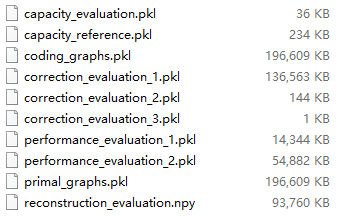
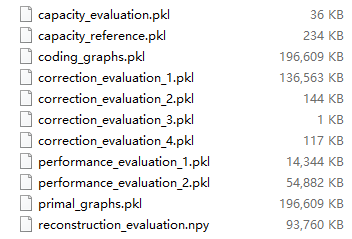
normal update
add HEDGES runtime test

diff --git a/experiments/code_repair.py b/experiments/code_repair.py
@@ -1,11 +1,14 @@
 # noinspection PyPackageRequirements
 from Bio.pairwise2 import align
+from itertools import product
 from datetime import datetime
-from numpy import random, array, load, sum, std, max, mean, log, where
+from numpy import random, array, zeros, load, all, sum, std, max, mean, ceil, log, where, longlong
 from warnings import filterwarnings
 
-from dsw import Monitor, encode, set_vt, repair_dna, obtain_vertices
+from dsw import Monitor, encode, set_vt, repair_dna, obtain_vertices, bit_to_number
 from dsw import accessor_to_latter_map, approximate_capacity, remove_nasty_arc
+
+from experiments import local_bio_filters
 
 filterwarnings("ignore", category=RuntimeWarning)
 
@@ -404,3 +407,173 @@ def screen_edges_for_repair(accessor, maximum_rounds=0):
         current += 1
 
     return results
+
+
+def hedges_runtime(random_seed, check_number, error_number):
+    def hash_function(source_value):
+        target_value = array(source_value, dtype=longlong) * array(3935559000370003845, dtype=longlong)
+        target_value += array(2691343689449507681, dtype=longlong)
+        target_value ^= target_value >> 21
+        target_value ^= target_value << 37
+        target_value ^= target_value >> 4
+        target_value *= array(4768777513237032717, dtype=longlong)
+        target_value ^= target_value << 20
+        target_value ^= target_value >> 41
+        target_value ^= target_value << 5
+        return target_value
+
+    def hedges_encode(binary_message, strand_index, pattern, mapping, bio_filter,
+                      salt_number=46, previous_number=8, low_order_number=10):
+        dna_string, available_nucleotides, bit_location, pattern_flag = "", mapping, 0, 0
+        salt_index = strand_index % (2 ** salt_number)  # s bits of salt (strand ID).
+        while bit_location < len(binary_message):
+            bit_index = bit_location % (2 ** low_order_number)  # low-order q bits of the bit position index i.
+
+            if bit_location - previous_number >= 0:
+                previous_info = binary_message[bit_location - previous_number: bit_location]
+                previous_value = bit_to_number(previous_info, is_string=False)
+            else:
+                previous_value = 0
+
+            hash_value = hash_function(bit_index | previous_value | salt_index)
+            if len(available_nucleotides) > 0:
+                bit_number = pattern[pattern_flag]
+                message_bit = binary_message[bit_location: bit_location + bit_number]
+                bit_value = bit_to_number(message_bit, is_string=False) if len(message_bit) > 0 else 0
+                nucleotide = available_nucleotides[(hash_value + bit_value) % len(available_nucleotides)]
+                bit_location += bit_number
+                pattern_flag = (pattern_flag + 1) % len(pattern)
+            else:
+                raise ValueError("DNA string (index = " + str(strand_index) + ") " +
+                                 "cannot be encoded because of the established constraints!")
+
+            dna_string += nucleotide
+
+            available_nucleotides = []
+            for potential_nucleotide in mapping:
+                if bio_filter.valid(dna_string + potential_nucleotide, only_last=True):
+                    available_nucleotides.append(potential_nucleotide)
+
+        return dna_string
+
+    def hedges_decode(dna_string, strand_index, bit_length, pattern, mapping, bio_filter,
+                      salt_number=46, previous_number=8, low_order_number=10, heap_limitation=1e6, initial_score=0.0,
+                      correct_penalty=-0.035, insert_penalty=1.0, delete_penalty=1.0, mutate_penalty=1.0):
+        # s bits of salt (strand index).
+        salt_value = strand_index % (2 ** salt_number)
+
+        class HypothesisNode:
+
+            def __init__(self, pattern_flag, message, string):
+                self.pattern_flag, self.message, self.string = pattern_flag, message, string
+
+            def next(self, nucleotide_index, current_score):
+                follow_vertices, follow_scores, follow_indices = [], [], []
+
+                # collect the available nucleotides in this location.
+                available_nucleotides = []
+                for potential_nucleotide in mapping:
+                    if bio_filter.valid(self.string + potential_nucleotide, only_last=True):
+                        available_nucleotides.append(potential_nucleotide)
+
+                if len(available_nucleotides) == 0:  # this path is blocked, stop running.
+                    return [], [], [], []
+
+                # low-order q bits of the bit position index i.
+                bit_index = len(self.message) % (2 ** low_order_number)
+
+                if len(self.message) - previous_number >= 0:  # p previous concatenated bits.
+                    previous_info = self.message[len(self.message) - previous_number:]
+                    previous_value = bit_to_number(previous_info)
+                else:
+                    previous_value = 0
+
+                for message_bit in product([0, 1], repeat=pattern[self.pattern_flag]):
+                    hash_value = hash_function(bit_index | previous_value | salt_value)
+                    bit_value = bit_to_number(list(message_bit)) if len(message_bit) > 0 else 0
+                    nucleotide = available_nucleotides[(hash_value + bit_value) % len(available_nucleotides)]
+                    message, string = self.message + list(message_bit), self.string + nucleotide
+
+                    if nucleotide == dna_string[nucleotide_index]:  # assume that current nucleotide is correct.
+                        follow_vertices.append(HypothesisNode((self.pattern_flag + 1) % len(pattern), message, string))
+                        follow_scores.append(current_score + correct_penalty)
+                        follow_indices.append(nucleotide_index + 1)
+                    else:
+                        # assume that current nucleotide is mutated.
+                        follow_vertices.append(HypothesisNode((self.pattern_flag + 1) % len(pattern), message, string))
+                        follow_scores.append(current_score + mutate_penalty)
+                        follow_indices.append(nucleotide_index + 1)
+
+                        # assume that current nucleotide is inserted, the (i + 1)-th nucleotide is i-th nucleotide.
+                        if nucleotide_index + 1 < len(dna_string) and nucleotide == dna_string[nucleotide_index + 1]:
+                            follow_vertices.append(
+                                HypothesisNode((self.pattern_flag + 1) % len(pattern), message, string))
+                            follow_scores.append(current_score + insert_penalty)
+                            follow_indices.append(nucleotide_index + 2)
+
+                        # assume that current nucleotide is deleted.
+                        follow_vertices.append(HypothesisNode((self.pattern_flag + 1) % len(pattern), message, string))
+                        follow_scores.append(current_score + delete_penalty)
+                        follow_indices.append(nucleotide_index)
+
+                # noinspection PyShadowingNames
+                return follow_vertices, follow_scores, follow_indices, [len(v.message) for v in follow_vertices]
+
+        terminal_indices, heap_size = None, 1
+        heap = {"v": [HypothesisNode(0, [], "")], "s": [initial_score], "i": [0], "l": [0]}  # priority heap
+
+        while True:  # repair by A star search (score priority).
+            chuck_indices, chuck_score = where(array(heap["s"]) == min(heap["s"]))[0], min(heap["s"])
+
+            for chuck_index in chuck_indices:
+                # noinspection PyTypeChecker
+                heap["s"][chuck_index] = len(dna_string) + 1  # set the chuck vertex to inaccessible.
+                heap_size -= 1
+
+                if heap["i"][chuck_index] >= len(dna_string):
+                    continue
+
+                follow_info = heap["v"][chuck_index].next(heap["i"][chuck_index], chuck_score)
+                heap_size += len(follow_info[0])
+
+                heap["v"], heap["l"] = heap["v"] + follow_info[0], heap["l"] + follow_info[3]
+                heap["s"], heap["i"] = heap["s"] + follow_info[1], heap["i"] + follow_info[2]
+
+                # the first chain of hypotheses to decode the required bytes of message wins.
+                if bit_length == max(heap["l"]) or heap_size >= heap_limitation:
+                    candidates = []
+                    for terminal_index in where(array(heap["l"]) == bit_length)[0]:
+                        candidates.append((heap["v"][terminal_index].message, heap["v"][terminal_index].string))
+
+                    return candidates
+
+    nucleotides = ["A", "C", "G", "T"]
+    patterns = [[2, 1], [2, 1, 1, 1, 1], [1], [1, 1, 0], [1, 0], [1, 0, 0]]
+    correct_penalties = [-0.035, -0.082, -0.127, -0.229, -0.265, -0.324]
+    records = {}
+
+    for b_i, b in local_bio_filters.items():
+        for p_i, (p, c) in enumerate(zip(patterns, correct_penalties)):
+            random.seed(seed=random_seed)
+            binary_messages = random.randint(0, 2, size=(check_number, int(ceil(100 / len(p) * sum(p)))))
+            sub_records = zeros(shape=(check_number, 2))
+            for s_i, b_m in enumerate(binary_messages):
+                right_dna_string = hedges_encode(b_m, s_i, p, nucleotides, b)
+                wrong_dna_string = introduce_errors(right_dna_string, error_number, 10, nucleotides)
+
+                previous_time = datetime.now()
+                crs = hedges_decode(wrong_dna_string, s_i, len(b_m), p, nucleotides,
+                                    b, correct_penalty=c, heap_limitation=100000)
+                time_cost = (datetime.now() - previous_time).total_seconds()
+                found = False
+                for cr in crs:
+                    v = array(cr[0])
+                    if all(v == b_m):
+                        found = True
+                        break
+
+                sub_records[s_i] = (found, time_cost)
+
+            records[int(b_i), p_i + 1] = sub_records
+
+    return records

diff --git a/experiments/show_supp.py b/experiments/show_supp.py
@@ -1,7 +1,7 @@
 from collections import Counter
 # noinspection PyPackageRequirements
 from matplotlib import pyplot, rcParams
-from numpy import load, array, zeros_like, ones, arange, linspace, percentile, random, where, inf
+from numpy import load, array, zeros_like, zeros, ones, arange, linspace, percentile, random, where, inf
 from numpy import median, min, max, mean, sum, abs, sqrt, std, log10, clip, polyfit
 # noinspection PyPackageRequirements
 from openpyxl import Workbook
@@ -369,6 +369,31 @@ def supp09():
 
 
 def supp10():
+    records = load(file="./data/correction_evaluation_4.pkl", allow_pickle=True)
+    matrix_1, matrix_2, values = zeros(shape=(12, 6)), zeros(shape=(12, 6)), []
+    for filter_index in range(1, 13):
+        for pattern_index in range(1, 7):
+            values.append(records[(filter_index, pattern_index)][:, 1].tolist())
+            matrix_1[filter_index - 1, pattern_index - 1] = min(records[(filter_index, pattern_index)][:, 1])
+            matrix_2[filter_index - 1, pattern_index - 1] = max(records[(filter_index, pattern_index)][:, 1])
+    values = array(values)
+
+    print("%.2f" % mean(values) + " seconds per sequence.")
+
+    book = Workbook()
+    sheet = book.create_sheet(title="supp10", index=0)
+    sheet.append(["constraint set index", "pattern 1", "pattern 2", "pattern 3", "pattern 4", "pattern 5", "pattern 6"])
+    for filter_index in range(12):
+        record = [str(filter_index + 1).zfill(2)]
+        for pattern_index in range(6):
+            record.append("%.2f" % matrix_1[filter_index - 1, pattern_index - 1] + "~" +
+                          "%.2f" % matrix_2[filter_index - 1, pattern_index - 1])
+        sheet.append(record)
+
+    book.save("./show/supp10.xlsx")
+
+
+def supp11():
     def estimated_equation(x, a):
         return a ** x
 
@@ -414,11 +439,11 @@ def supp10():
                   fontsize=12)
     pyplot.ylim(0, 2 * 1e8)
 
-    pyplot.savefig("./show/supp10.pdf", format="pdf", bbox_inches="tight", dpi=600)
+    pyplot.savefig("./show/supp11.pdf", format="pdf", bbox_inches="tight", dpi=600)
     pyplot.close()
 
 
-def supp11():
+def supp12():
     record = load(file="./data/capacity_evaluation.pkl", allow_pickle=True)
 
     data, errors = record["detail"]
@@ -545,19 +570,20 @@ def supp11():
     figure.text(0.024, 0.34, "c", va="center", ha="center", fontsize=14)
 
     figure.align_labels()
-    pyplot.savefig("./show/supp11.pdf", format="pdf", bbox_inches="tight", dpi=600)
+    pyplot.savefig("./show/supp12.pdf", format="pdf", bbox_inches="tight", dpi=600)
     pyplot.close()
 
 
 if __name__ == "__main__":
-    supp01()
-    supp02()
-    supp03()
-    supp04()
-    supp05()
-    supp06()
-    supp07()
-    supp08()
-    supp09()
+    # supp01()
+    # supp02()
+    # supp03()
+    # supp04()
+    # supp05()
+    # supp06()
+    # supp07()
+    # supp08()
+    # supp09()
     supp10()
-    supp11()
+    # supp11()
+    # supp12()

diff --git a/experiments/evaluations.py b/experiments/evaluations.py
@@ -11,6 +11,7 @@ from experiments import local_bio_filters
 from experiments.code_encode import generate_database, trans_fountain, trans_yinyang, trans_hedges, trans_spiderweb
 from experiments.code_repair import show_single_examples, show_multiple_examples, evaluate_repair_multiple_errors
 from experiments.code_repair import calculate_spiderweb_minimum_reads, evaluate_spiderweb_established_reads
+from experiments.code_repair import hedges_runtime
 
 
 def generate_algorithms():
@@ -154,6 +155,7 @@ def evaluate_performance():
 def evaluate_correction():
     show_single_examples()
     show_multiple_examples()
+
     if not exists("./data/correction_evaluation_1.pkl"):
         with open("./data/coding_graphs.pkl", "rb") as file:
             accessor = load(file)["01"]
@@ -230,6 +232,11 @@ def evaluate_correction():
                 records["length influence"][length // 100 - 1, error_times - 1] = sum(results[:, -2]) / 2000.0
 
         with open("./data/correction_evaluation_3.pkl", "wb") as file:
+            dump(obj=records, file=file)
+
+    if not exists("./data/correction_evaluation_4.pkl"):
+        records = hedges_runtime(random_seed=2021, check_number=100, error_number=2)
+        with open("./data/correction_evaluation_4.pkl", "wb") as file:
             dump(obj=records, file=file)
 
 

diff --git a/experiments/code_encode.py b/experiments/code_encode.py
@@ -306,6 +306,7 @@ def trans_hedges(dataset, shape, index_length):
                 if heap["i"][chuck_index] >= len(dna_string):
                     continue
 
+                # noinspection PyUnresolvedReferences
                 follow_info = heap["v"][chuck_index].next(dna_string, heap["i"][chuck_index], chuck_score,
                                                           pattern, used_filter, strand_index % (2 ** salt_number),
                                                           correct_penalty, mutate_penalty, insert_penalty,
